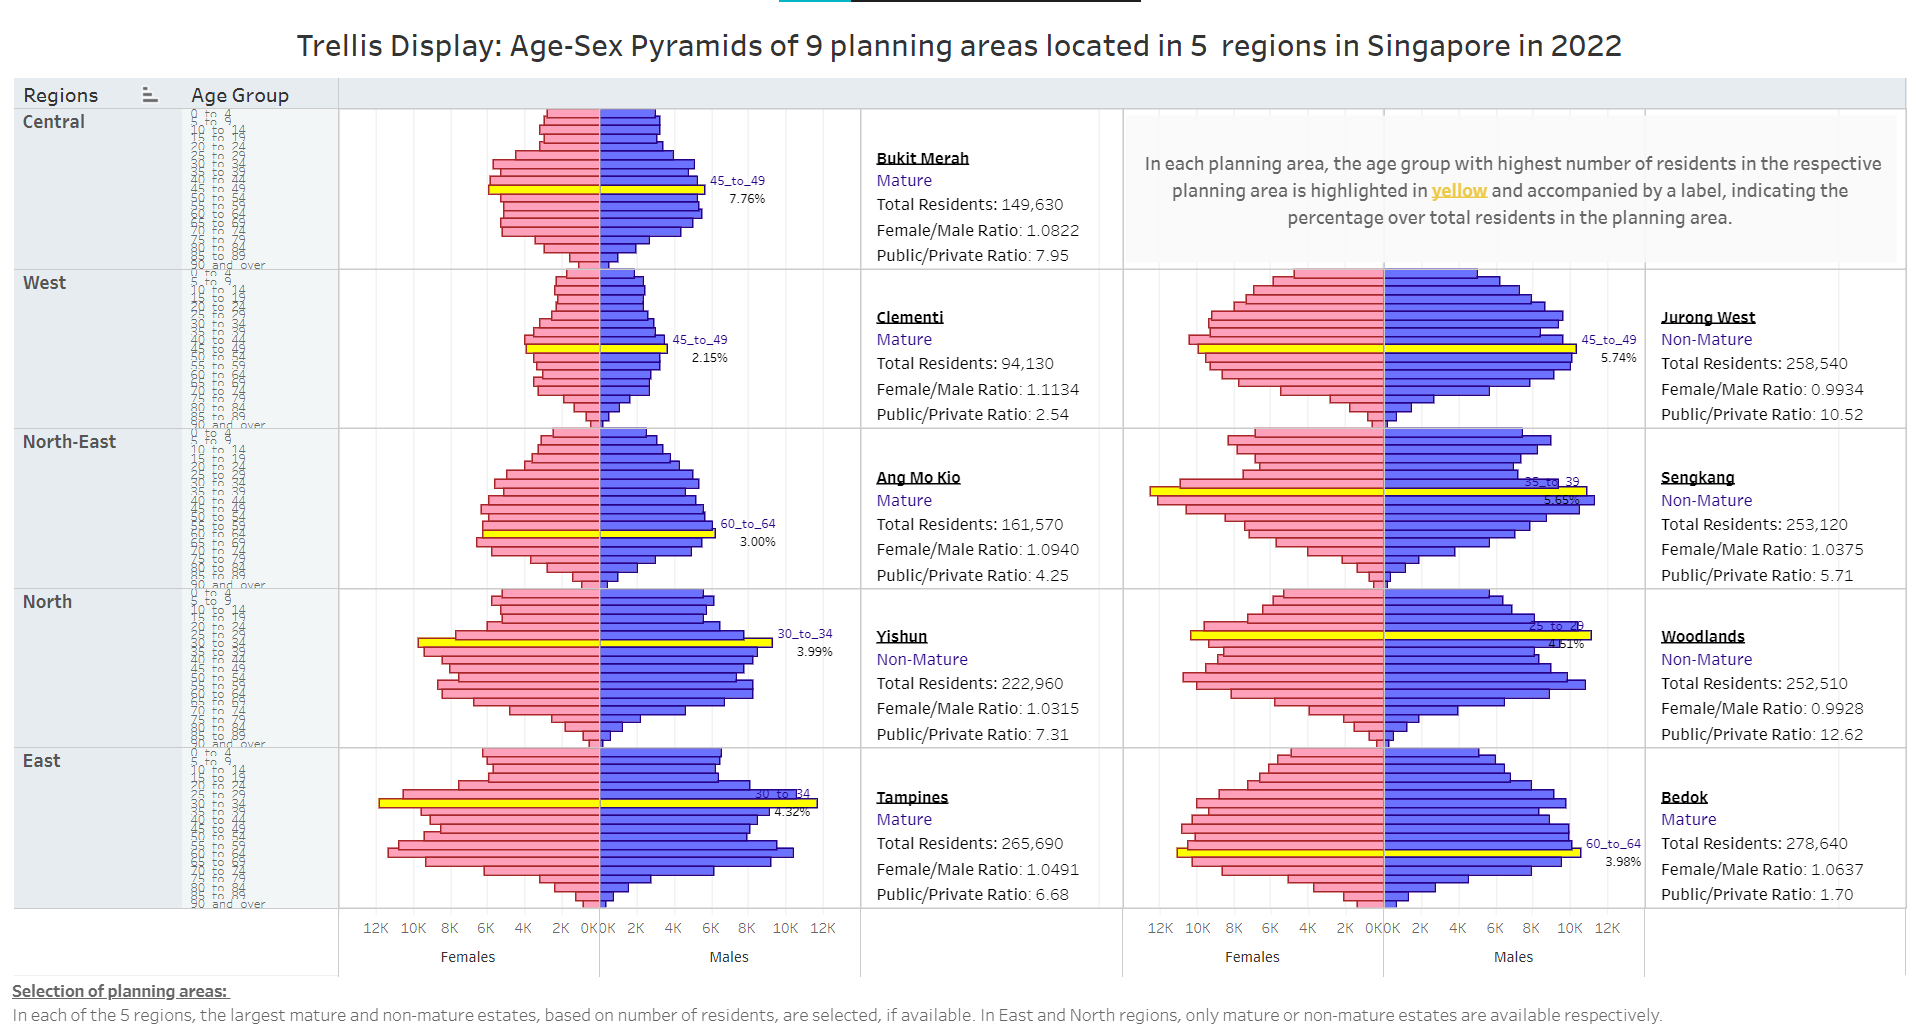
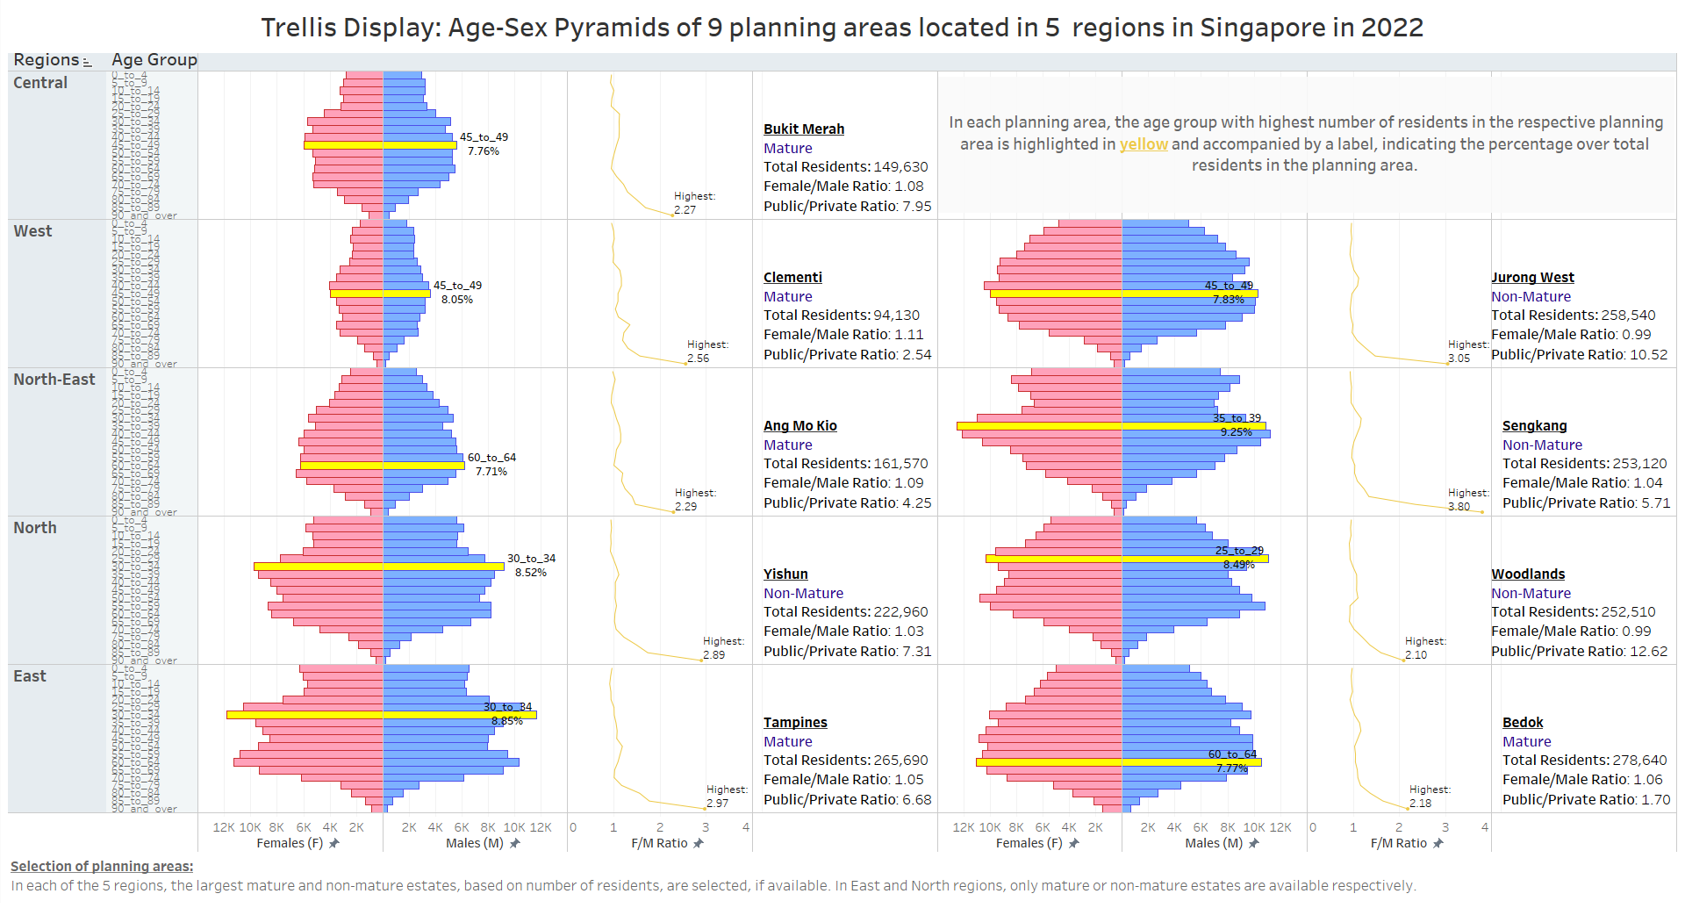
Commit after changes made on Take-home Ex01

diff --git a/_site/Take_Home_Exercise/Take_Home_Exercise_1/Take_Home_Exercise_1.html b/_site/Take_Home_Exercise/Take_Home_Exercise_1/Take_Home_Exercise_1.html
@@ -7,7 +7,7 @@
 <meta name="viewport" content="width=device-width, initial-scale=1.0, user-scalable=yes">
 
 <meta name="author" content="Law Shiang Rou">
-<meta name="dcterms.date" content="2023-01-21">
+<meta name="dcterms.date" content="2023-01-22">
 
 <title>ISSS608-VAA - Take Home Exercise 1</title>
 <style>
@@ -136,7 +136,7 @@ ul.task-list li input[type="checkbox"] {
   <li><a href="#dataset" id="toc-dataset" class="nav-link" data-scroll-target="#dataset"><strong>2. Dataset</strong></a></li>
   <li><a href="#preparation-steps" id="toc-preparation-steps" class="nav-link" data-scroll-target="#preparation-steps"><strong>3. Preparation Steps</strong></a></li>
   <li><a href="#trellis-display-age-sex-pyramids" id="toc-trellis-display-age-sex-pyramids" class="nav-link" data-scroll-target="#trellis-display-age-sex-pyramids"><strong>4. Trellis Display: Age-Sex Pyramids</strong></a></li>
-  <li><a href="#key-insights" id="toc-key-insights" class="nav-link" data-scroll-target="#key-insights"><strong>5. Key Insights</strong></a></li>
+  <li><a href="#key-observations" id="toc-key-observations" class="nav-link" data-scroll-target="#key-observations"><strong>5. Key Observations</strong></a></li>
   </ul>
 </nav>
     </div>
@@ -162,7 +162,7 @@ ul.task-list li input[type="checkbox"] {
     <div>
     <div class="quarto-title-meta-heading">Published</div>
     <div class="quarto-title-meta-contents">
-      <p class="date">January 21, 2023</p>
+      <p class="date">January 22, 2023</p>
     </div>
   </div>
   
@@ -174,7 +174,8 @@ ul.task-list li input[type="checkbox"] {
 
 <section id="overview" class="level2">
 <h2 class="anchored" data-anchor-id="overview"><strong>1. Overview</strong></h2>
-<p>In this take-home exercise, we will explore using age-sex pyramids to showcase the age and gender distribution of Singapore population in nine selected planning areas on single view using trellis display.</p>
+<p>In this take-home exercise, we will explore using age-sex pyramids to showcase the age and gender composition of Singapore population in nine selected planning areas on single view using trellis display.</p>
+<p><u><strong>Selection of planning areas:</strong></u><br> In each of the 5 regions, we select 1 largest mature and 1 largest non-mature planning areas, based on number of residents. In East and North regions, only mature or non-mature estates are available, hence, 2 planning areas of the same maturity are selected in these 2 regions.</p>
 </section>
 <section id="dataset" class="level2">
 <h2 class="anchored" data-anchor-id="dataset"><strong>2. Dataset</strong></h2>
@@ -387,6 +388,11 @@ ul.task-list li input[type="checkbox"] {
 <td><strong>Create calculated field - Window Resident Count</strong> <br><br>Under Analysis, click “Create Calculated Field” to create a calculated field - “Window Resident Count” by keying in the formula shown on the right.</td>
 <td style="text-align: center;"><img src="images/3.4.5.png" class="img-fluid" style="width:100.0%"></td>
 </tr>
+<tr class="even">
+<td style="text-align: center;">6.</td>
+<td><strong>Add a line plot on Female-to-Male ratio</strong> <br><br>Drag “Female-to-Male Ratio” to Columns, click on the triangle icon and select compute using “Cell”. Right click on the X-Axis for line plot, select “Edit Axis” to edit the title to “F/M Ratio”</td>
+<td style="text-align: center;"><img src="images/3.4.6.png" class="img-fluid" style="width:100.0%"><br><br><img src="images/3.4.6(1).png" class="img-fluid" width="300"></td>
+</tr>
 </tbody>
 </table>
 </section>
@@ -455,6 +461,11 @@ ul.task-list li input[type="checkbox"] {
 <td style="text-align: center;">10.</td>
 <td><strong>Adjust tooltips for SUM(Females) and SUM(Males)</strong> <br><br>Drag “Females”, “Males”, “Female-to-Male ratio” and “Maturity” onto tooltip under both SUM(Females) and SUM(Males). Edit the tooltip as shown on the right.</td>
 <td style="text-align: center;"><img src="images/3.5.10.png" class="img-fluid" style="width:100.0%"></td>
+</tr>
+<tr class="odd">
+<td style="text-align: center;">11.</td>
+<td><strong>Add label for F/M Ratio </strong> <br><br>Drag “Females-to-Males ratio” onto Label, click on Label, check “Show mark labels”, select “Min/Max” and deselect “Label minimum value”.</td>
+<td style="text-align: center;"><img src="images/3.5.11.png" class="img-fluid" width="350"></td>
 </tr>
 </tbody>
 </table>
@@ -570,13 +581,16 @@ ul.task-list li input[type="checkbox"] {
 <section id="trellis-display-age-sex-pyramids" class="level2">
 <h2 class="anchored" data-anchor-id="trellis-display-age-sex-pyramids"><strong>4. Trellis Display: Age-Sex Pyramids</strong></h2>
 <p><img src="images/Final Visualization.png" class="img-fluid" style="width:100.0%"></p>
-<p>The interactive visualization can now be viewed on <a href="https://isss608-shiangrou.netlify.app/take_home_exercise/take_home_exercise_1/take_home_exercise_1">Tableau Public</a>.</p>
+<p>The interactive visualization can now be viewed on <a href="https://public.tableau.com/views/TakeHomeExercise1-20Jan2023/Dashboard1?:language=en-US&amp;:display_count=n&amp;:origin=viz_share_link">Tableau Public</a>.</p>
 </section>
-<section id="key-insights" class="level2">
-<h2 class="anchored" data-anchor-id="key-insights"><strong>5. Key Insights</strong></h2>
-<ol type="1">
-<li>Sengkang - has</li>
-</ol>
+<section id="key-observations" class="level2">
+<h2 class="anchored" data-anchor-id="key-observations"><strong>5. Key Observations</strong></h2>
+<p><strong>1. Population size varies greatly across planning areas (PA), outer edges of Singapore more populated.</strong> From the trellis display, we observed that Bedok, Tampines, Jurong West, Sengkang, Woodlands and Yishun are significantly more populous than the other 3 PAs. We have mapped out the locations as shown below and observed that the more populous PAs are all located at outer edges of Singapore, and the 3 less populous PAs are either located near to or in Central Region.<br><br> <img src="images/Map location.png" class="img-fluid" width="700" alt="Singapore map with 9 selected planning areas"> <br><br> <strong>2. Mature estates have larger proportion of aged residents.</strong> The 3 mature PAs - Bukit Merah, AngMoKio and Clementi have 16.5%, 16.1% and 14.6% of their residents above 70 years old respectively. These proportions are much higher as compared to the 4 non-mature PAs (Woodlands, Yishun, Sengkang, Jurong West), with only 6.51% to 8.69% of their residents age above 70. This observation is consistent with the PA’s maturity. As mature PAs have been around for longer (&gt;20 years), it’s logical to have composition of older residents. Although the 2 mature PAs in East Region (Bedok, Tampines) have slightly lower proportion of residents above 70, at 13.75% and 9.58% respectively, their proportion of residents above 60 is at a similar level to that of Bukit Merah, AngMoKio and Clementi.</p>
+<p><strong>3. In the same region, non-mature PAs are more populated than mature PAs.</strong> For regions with both mature and non-mature PAs, the biggest non-mature PA in the region has significantly more residents than the biggest mature PA in the same region. This is observed from both West and North-East Region. The biggest non-mature PA in West Region, Jurong West is 1.75x more populous than Clementi, the biggest mature PA in the West. Also, Sengkang, the biggest non-mature PA in North-East Region has 57% more residents than the biggest mature PA in North-East, Ang Mo Kio.</p>
+<p><strong>4. High proportion of young families in Yishun, Woodlands, Sengkang and Tampines</strong> As evident from the trellis chart, these 4 PAs seem to be preferred by younger residents in their 20s and 30s. Besides, these PAs also have higher proportion of children under 10, as compared to other selected PAs. This indicates a pool of relatively younger families residing in these 4 PAs.</p>
+<p><strong>5. Shift in age distribution after age 70, with Females-to-Males ratio peaks after age 90 across all PAs.</strong> The line charts show that female-to-male ratio follows a constant uptrend after age 70, with female population more than double the male population at age 90 onward. This is unsurprising as <a href="https://www.singstat.gov.sg/find-data/search-by-theme/population/death-and-life-expectancy/latest-data">statistics</a> have shown that females have longer average life expectancy than males in Singapore. Additionally, a small bulge is also observed on the female-to-male ratio at age 30s to 40s, and the reason behind this bulge might be worth investigating.</p>
+<p><strong>6. Bedok has highest proportion of private housing, while Woodlands has highest proportion of HDB dwellers.</strong> In 2022, approximately 20% of residents resided in private housing in Singapore. Given this <a href="https://www.singstat.gov.sg/-/media/files/publications/population/population2022.ashx">statistic</a>, Bedok seems to be more prestige as 36.7% of residents here resided in private housing. Of all the private housing residents in Singapore, 11.3% of them reside in Bedok. Woodlands, on the other hand, has 92.3% of its residents residing in public housing.</p>
+<p><strong>Conclusion:</strong> The above observations are extracted based on only 9 selected PAs, we can expand this study to all 55 PAs to find out if some of the observations persist.</p>
 
 
 </section>

diff --git a/_site/Hands-on_exercise/Hands-on_EX01/Hands-on_EX01.html b/_site/Hands-on_exercise/Hands-on_EX01/Hands-on_EX01.html
@@ -7,7 +7,7 @@
 <meta name="viewport" content="width=device-width, initial-scale=1.0, user-scalable=yes">
 
 <meta name="author" content="Law Shiang Rou">
-<meta name="dcterms.date" content="2023-01-21">
+<meta name="dcterms.date" content="2023-01-22">
 
 <title>ISSS608-VAA - Hands-on Exercise 1</title>
 <style>
@@ -226,7 +226,7 @@ code span.wa { color: #60a0b0; font-weight: bold; font-style: italic; } /* Warni
     <div>
     <div class="quarto-title-meta-heading">Published</div>
     <div class="quarto-title-meta-contents">
-      <p class="date">January 21, 2023</p>
+      <p class="date">January 22, 2023</p>
     </div>
   </div>
   

diff --git a/_site/Hands-on_exercise/Hands-on_EX02/Hands-on_EX02.html b/_site/Hands-on_exercise/Hands-on_EX02/Hands-on_EX02.html
@@ -7,7 +7,7 @@
 <meta name="viewport" content="width=device-width, initial-scale=1.0, user-scalable=yes">
 
 <meta name="author" content="Law Shiang Rou">
-<meta name="dcterms.date" content="2023-01-21">
+<meta name="dcterms.date" content="2023-01-22">
 
 <title>ISSS608-VAA - Hands-on Exercise 2: Creating Elegant Graphics with ggplot2</title>
 <style>
@@ -152,7 +152,7 @@ ul.task-list li input[type="checkbox"] {
     <div>
     <div class="quarto-title-meta-heading">Published</div>
     <div class="quarto-title-meta-contents">
-      <p class="date">January 21, 2023</p>
+      <p class="date">January 22, 2023</p>
     </div>
   </div>
   
